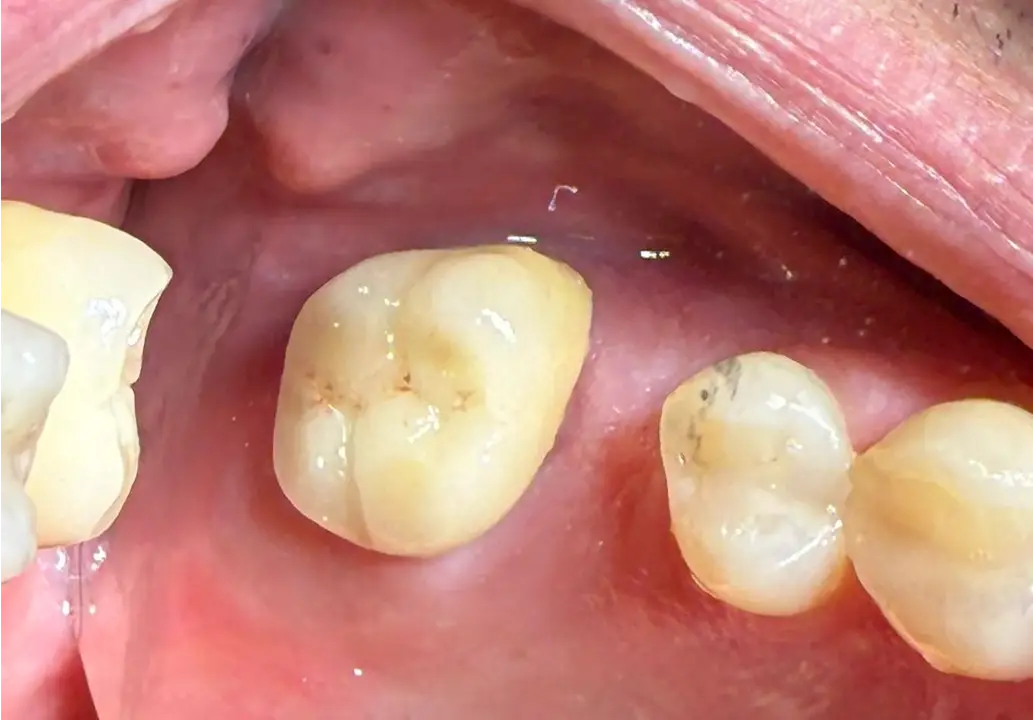
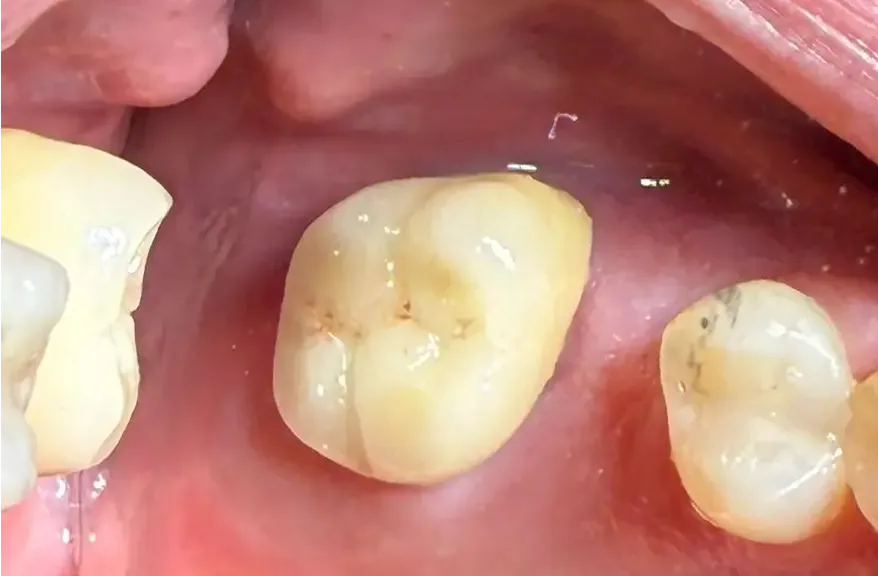
Revert scale zoom, crop protesi images instead for clean slider
Trimmed 15% right and 10% top/bottom to zoom into the treatment area
from the left side. No CSS transform needed.

diff --git a/odontoiatria-milano.html b/odontoiatria-milano.html
@@ -323,8 +323,8 @@
       <div>
         <div class="service-block-visual" style="background:none;padding:0;overflow:hidden">
           <div class="ba-slider" data-ba style="height:auto;aspect-ratio:4/3">
-            <img src="images/before-after/Protesi-Before.webp" alt="Prima — protesi dentale" class="ba-before" style="object-position:0% center !important;transform:scale(1.15);transform-origin:left center">
-            <img src="images/before-after/Protesi-After.webp" alt="Dopo — protesi dentale" class="ba-after" style="object-position:0% center !important;transform:scale(1.15);transform-origin:left center">
+            <img src="images/before-after/Protesi-Before.webp" alt="Prima — protesi dentale" class="ba-before" style="object-position:0% center !important">
+            <img src="images/before-after/Protesi-After.webp" alt="Dopo — protesi dentale" class="ba-after" style="object-position:0% center !important">
             <div class="ba-line"></div>
             <div class="ba-handle"><svg viewBox="0 0 24 24"><path d="M8.5 5l-5 7 5 7M15.5 5l5 7-5 7"/><path d="M3.5 12h17" stroke="currentColor" fill="none" stroke-width="2"/></svg></div>
             <span class="ba-label ba-label-prima">Prima</span>
